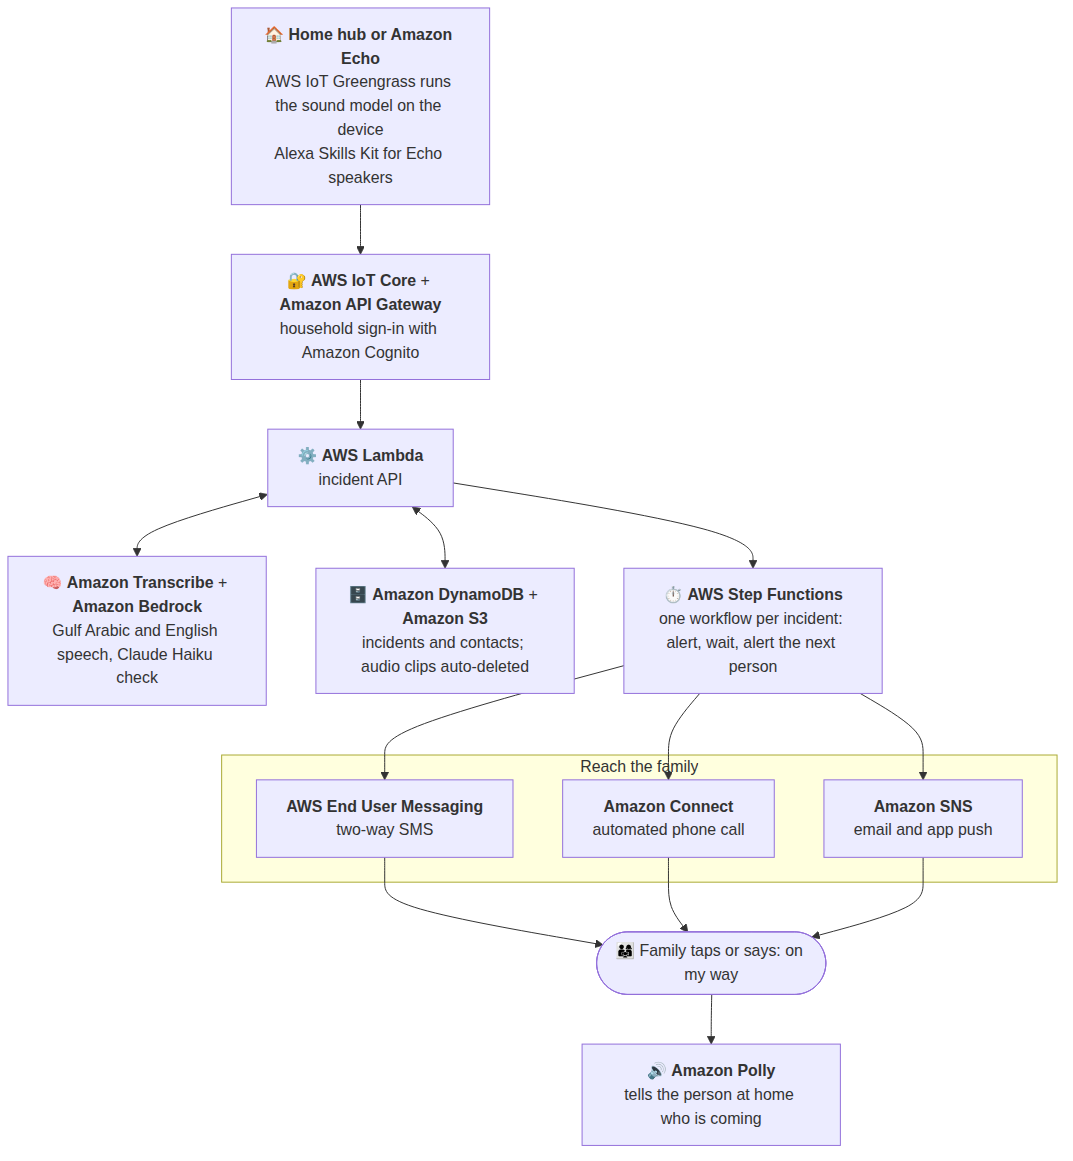
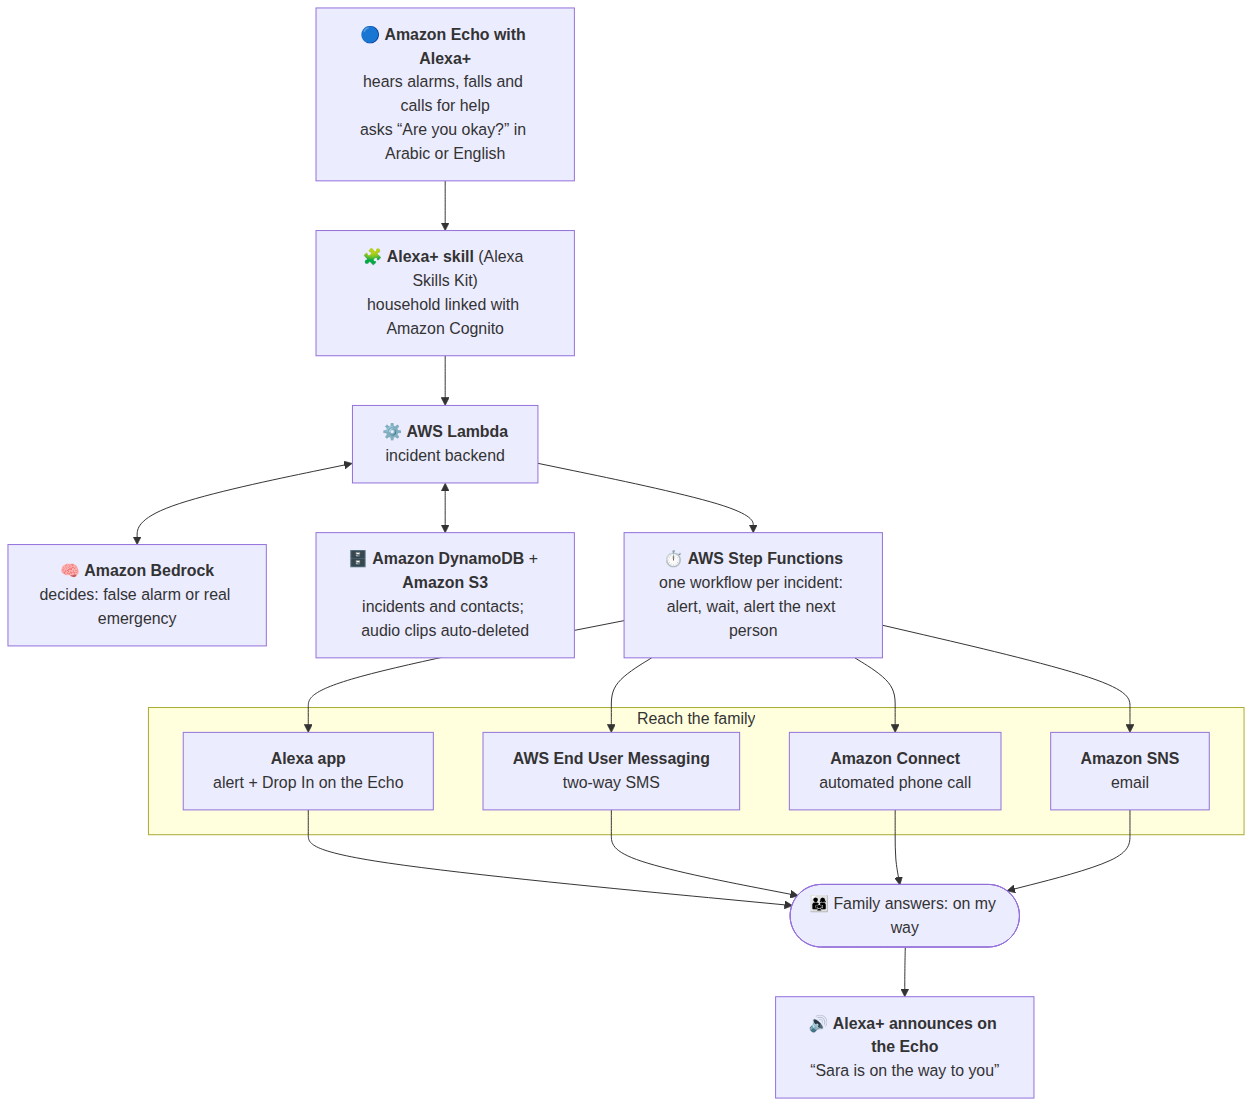
README: centre the future architecture on Alexa+
The future-work section now starts from Amazon Echo with Alexa+: Alexa+
listens, holds the "Are you okay?" conversation and announces who is
coming, with an Alexa+ skill and AWS behind it. The intro describes the
project as a safety assistant for Alexa+, and the prototype as an
Alexa+-style assistant that runs in the browser.

Claude-Session: https://claude.ai/code/session_01GiqSCnVy26WUae9DCvVyy3

diff --git a/README.md b/README.md
@@ -1,19 +1,23 @@
 # Home Safety Assistant
 
-An Alexa-style assistant that keeps an ear on the home. When it hears a fall,
-a call for help, a smoke alarm or breaking glass, it asks out loud
+A safety assistant for **Alexa+** that keeps an ear on the home. When it hears
+a fall, a call for help, a smoke alarm or breaking glass, it asks out loud
 **"Are you okay?"**. If the person asks for help, or doesn't answer, it alerts
 their family until someone responds, and tells the person at home who is on
 the way.
 
 Built for households in Saudi Arabia, in **English and Saudi Arabic**.
 
+This prototype runs in the browser as an Alexa+-style assistant, so it can be
+tried without an Echo. [With more time](#with-more-time-on-alexa-and-aws)
+shows how it runs on Echo devices with Alexa+ and AWS.
+
 - [What it does](#what-it-does)
 - [How to deploy locally](#how-to-deploy-locally) (start here)
 - [How it works](#how-it-works)
 - [Deploying online](#deploying-online)
 - [Project structure](#project-structure)
-- [With more time: an all-AWS version](#with-more-time-an-all-aws-version)
+- [With more time: on Alexa+ and AWS](#with-more-time-on-alexa-and-aws)
 - [Team](#team)
 - [Known limitations](#known-limitations)
 
@@ -31,7 +35,7 @@ Built for households in Saudi Arabia, in **English and Saudi Arabic**.
 
 The app has two pages:
 
-- **`/`**: the Alexa-style assistant, with a simulated fall alert.
+- **`/`**: the Alexa+-style assistant, with a simulated fall alert.
 - **`/monitor`**: the home safety monitor.
 
 ## How to deploy locally
@@ -119,7 +123,7 @@ pnpm dev
 2. When the monitor asks "Are you okay?", answer **"I'm fine"**. Nothing is
    sent.
 
-**The Alexa-style assistant**
+**The Alexa+-style assistant**
 
 Go to **http://localhost:3000** to chat with the assistant. Its
 **Simulate Fall** button needs the email settings below; without them it
@@ -231,70 +235,70 @@ Step-by-step instructions are in
 | `lib/server/`                       | Escalation runner, alert texts, signed links, configuration checks, providers |
 | `app/api/`                          | API routes                                                                    |
 | `db/`                               | Supabase schema and scheduler                                                 |
-| `components/alexa/`, `lib/aws/`     | The Alexa-style assistant and the email layer                                 |
+| `components/alexa/`, `lib/aws/`     | The Alexa+-style assistant and the email layer                                |
 
 To add a language, copy a file in `lib/safety/languages/`, translate it, and
 register it in `lib/safety/languages/index.ts`. `pnpm scorecard` then reports
 its accuracy. The UI uses [shadcn/ui](https://ui.shadcn.com) components in
 `components/ui`.
 
-## With more time: an all-AWS version
+## With more time: on Alexa+ and AWS
 
-The hackathon version uses whichever service was fastest to build with. With
-more time, we would run the whole app on AWS, so one account covers the
-device, AI, data and alerts, hosted in the AWS regions closest to Saudi
-Arabia wherever each service is available.
+Alexa+ is the heart of the idea: the Echo already in the living room becomes
+the safety assistant. It listens, asks "Are you okay?" in a natural
+conversation, and tells the person at home who is coming. Everything behind
+it runs on AWS, in the regions closest to Saudi Arabia wherever each service
+is available.
 
 ```mermaid
 flowchart TB
-  Hub["🏠 <b>Home hub or Amazon Echo</b><br/>AWS IoT Greengrass runs the sound model on the device<br/>Alexa Skills Kit for Echo speakers"]
-  Gateway["🔐 <b>AWS IoT Core</b> + <b>Amazon API Gateway</b><br/>household sign-in with Amazon Cognito"]
-  Lambda["⚙ <b>AWS Lambda</b><br/>incident API"]
-  AI["🧠 <b>Amazon Transcribe</b> + <b>Amazon Bedrock</b><br/>Gulf Arabic and English speech, Claude Haiku check"]
+  Echo["🔵 <b>Amazon Echo with Alexa+</b><br/>hears alarms, falls and calls for help<br/>asks “Are you okay?” in Arabic or English"]
+  Skill["🧩 <b>Alexa+ skill</b> (Alexa Skills Kit)<br/>household linked with Amazon Cognito"]
+  Lambda["⚙ <b>AWS Lambda</b><br/>incident backend"]
+  AI["🧠 <b>Amazon Bedrock</b><br/>decides: false alarm or real emergency"]
   Data["🗄 <b>Amazon DynamoDB</b> + <b>Amazon S3</b><br/>incidents and contacts; audio clips auto-deleted"]
   SFN["⏱ <b>AWS Step Functions</b><br/>one workflow per incident: alert, wait, alert the next person"]
 
   subgraph Reach["Reach the family"]
     direction LR
+    Drop["<b>Alexa app</b><br/>alert + Drop In on the Echo"]
     SMS["<b>AWS End User Messaging</b><br/>two-way SMS"]
     Call["<b>Amazon Connect</b><br/>automated phone call"]
-    SNS["<b>Amazon SNS</b><br/>email and app push"]
+    SNS["<b>Amazon SNS</b><br/>email"]
   end
 
-  Family(["👨👩👧 Family taps or says: on my way"])
-  Polly["🔊 <b>Amazon Polly</b><br/>tells the person at home who is coming"]
+  Family(["👨👩👧 Family answers: on my way"])
+  Announce["🔊 <b>Alexa+ announces on the Echo</b><br/>“Sara is on the way to you”"]
 
-  Hub --> Gateway --> Lambda
+  Echo --> Skill --> Lambda
   Lambda <--> AI
   Lambda <--> Data
   Lambda --> SFN
-  SFN --> SMS & Call & SNS
-  SMS & Call & SNS --> Family
-  Family --> Polly
+  SFN --> Drop & SMS & Call & SNS
+  Drop & SMS & Call & SNS --> Family
+  Family --> Announce
 ```
 
 If the diagram doesn't display, see
 [`docs/images/aws-architecture.png`](docs/images/aws-architecture.png).
 
-| Part             | Today                          | On AWS                                             | What it adds                                                                      |
-| ---------------- | ------------------------------ | -------------------------------------------------- | --------------------------------------------------------------------------------- |
-| Listening device | A Chrome tab                   | AWS IoT Greengrass on a small home hub             | Runs all day without a browser; keeps listening if the internet drops             |
-| Amazon Echo      | Alexa-style web demo           | Alexa Skills Kit                                   | Works on real Echo speakers people already own                                    |
-| Sign-in          | None                           | Amazon Cognito                                     | Only the family can open the monitor and manage contacts                          |
-| Speech to text   | Chrome (Google) + Groq Whisper | Amazon Transcribe                                  | Supports Gulf Arabic, and audio never leaves AWS                                  |
-| AI check         | Anthropic API                  | Amazon Bedrock (Claude Haiku)                      | Same model, billed and secured with the rest of the account                       |
-| Spoken voice     | The browser's voice            | Amazon Polly neural voices                         | Natural Arabic and English voices on every device                                 |
-| API              | Next.js routes on Vercel       | Amazon API Gateway + AWS Lambda                    | Scales on demand, with no servers to manage                                       |
-| Escalation       | pg_cron every 30 s             | AWS Step Functions                                 | One visible workflow per incident; a reply stops it immediately                   |
-| Offline warning  | pg_cron heartbeat check        | Amazon EventBridge Scheduler                       | Checks each home on a schedule, without polling                                   |
-| Data             | Supabase Postgres and Storage  | Amazon DynamoDB + Amazon S3                        | Automatic deletion (DynamoDB TTL, S3 lifecycle rules) and encryption with AWS KMS |
-| Alerts           | Telegram + Amazon SNS email    | AWS End User Messaging, Amazon Connect, Amazon SNS | Two-way SMS and automated phone calls, so family don't need any app               |
-| Secrets          | Vercel environment variables   | AWS Secrets Manager                                | Keys rotated and audited in one place                                             |
-| Monitoring       | Vercel and Supabase logs       | Amazon CloudWatch                                  | An alarm if alerts fail to send                                                   |
+| Part                   | This prototype                       | On Alexa+ and AWS                                                   | What it adds                                                            |
+| ---------------------- | ------------------------------------ | ------------------------------------------------------------------- | ----------------------------------------------------------------------- |
+| Listening device       | A Chrome tab                         | Amazon Echo with Alexa+                                             | Runs all day on a device families already own, with no tab to keep open |
+| Conversation           | Browser speech recognition and voice | Alexa+                                                              | Natural conversation and Alexa's own voice, in Arabic and English       |
+| Sign-in                | None                                 | Alexa+ skill with account linking (Amazon Cognito)                  | Only the household's own Echo devices and family can use it             |
+| Backend                | Next.js routes on Vercel             | AWS Lambda                                                          | Scales on demand, with no servers to manage                             |
+| AI check               | Groq Whisper + Anthropic API         | Amazon Bedrock (Claude Haiku)                                       | Same model, billed and secured with the rest of the account             |
+| Escalation             | pg_cron every 30 s                   | AWS Step Functions                                                  | One visible workflow per incident; a reply stops it immediately         |
+| Offline warning        | pg_cron heartbeat check              | Amazon EventBridge Scheduler                                        | Warns the family if the Echo goes offline                               |
+| Data                   | Supabase Postgres and Storage        | Amazon DynamoDB + Amazon S3                                         | Automatic deletion (DynamoDB TTL, S3 lifecycle) and AWS KMS encryption  |
+| Alerts                 | Telegram + Amazon SNS email          | Alexa app, AWS End User Messaging (SMS), Amazon Connect, Amazon SNS | Family can Drop In on the Echo to talk, or answer by SMS or phone call  |
+| Answer heard at home   | The browser's voice                  | Alexa+ announcement on the Echo                                     | "Sara is on the way to you" in Alexa's voice                            |
+| Secrets and monitoring | Vercel variables and logs            | AWS Secrets Manager + Amazon CloudWatch                             | Keys rotated in one place, and an alarm if an alert fails to send       |
 
 ## Team
 
-- **Fahad Aljudaibi**: Alexa-style assistant app
+- **Fahad Aljudaibi**: Alexa+-style assistant app
 - **Faris Abushanab**: email alerts with AWS SNS
 - **Rinad Almjishai**: home safety monitor and AI layer
 
